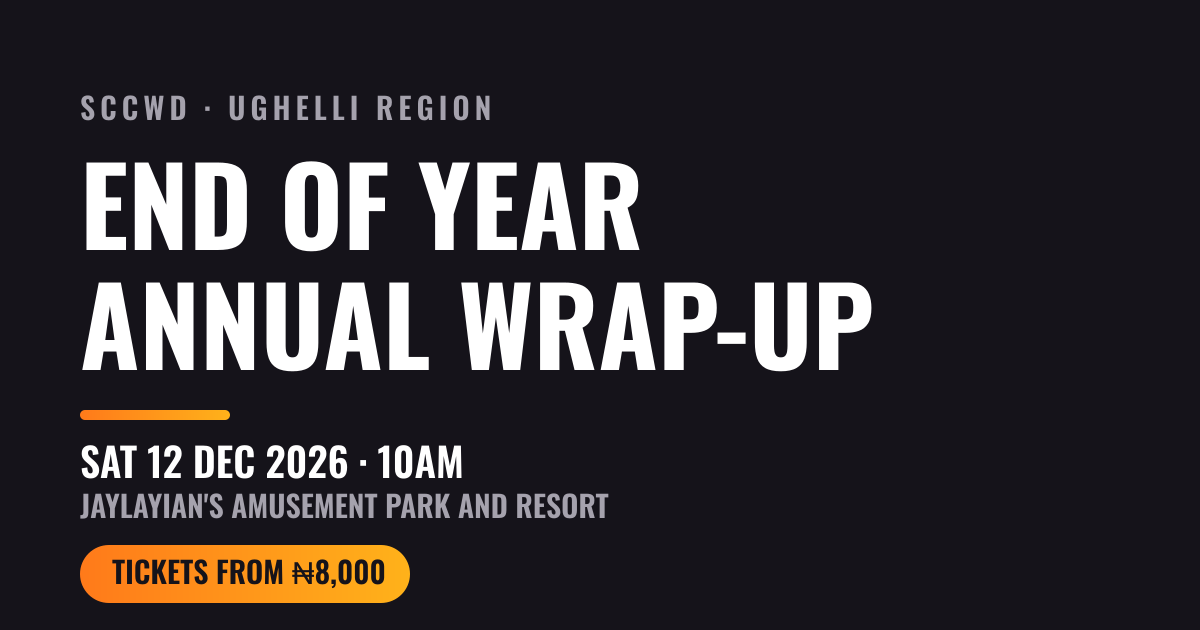
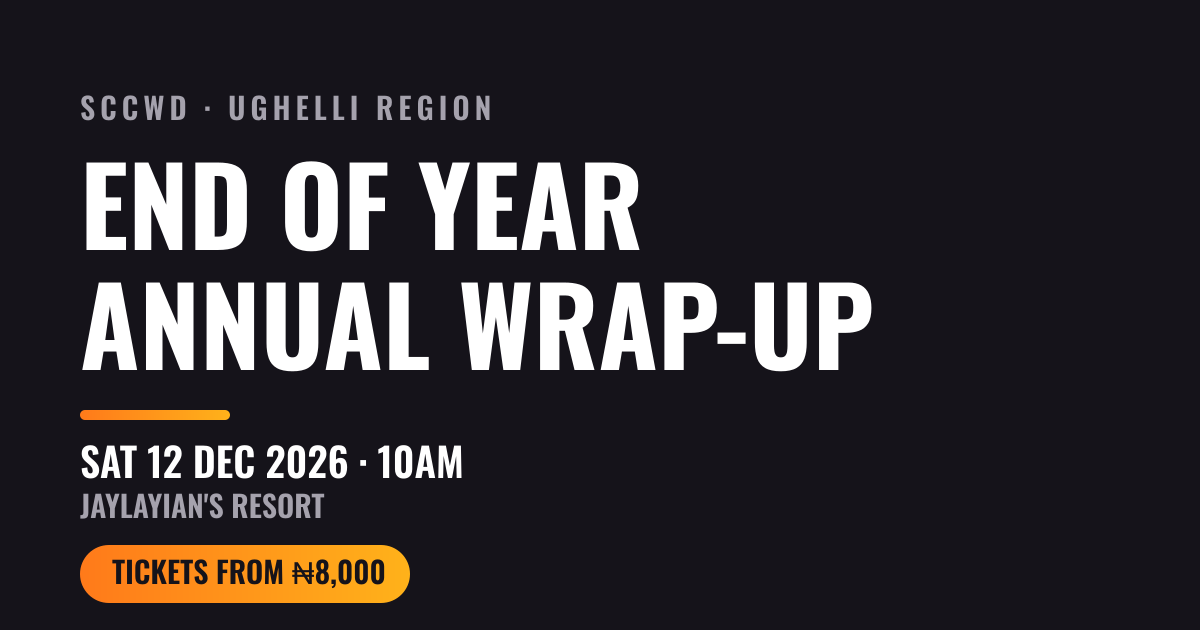
Short venue name: Jaylayian's Resort
Claude-Session: https://claude.ai/code/session_01GjEyqaD2Sx3QCFQvbwdUQF

Changed region(s): [[0.185, 0.7841, 0.5242, 0.8444]]

diff --git a/index.html b/index.html
@@ -4,10 +4,10 @@
     <meta charset="utf-8" />
     <meta name="viewport" content="width=device-width, initial-scale=1, viewport-fit=cover" />
     <title>Ughelli Regional Choir End of Year Wrap-Up · Sat 12 Dec 2026</title>
-    <meta name="description" content="Love feast, swimming, soccer, table tennis, snooker and a dancing competition. Saturday 12 December 2026, 10am at Jaylayian's Amusement Park and Resort. Get your e-ticket." />
+    <meta name="description" content="Love feast, swimming, soccer, table tennis, snooker and a dancing competition. Saturday 12 December 2026, 10am at Jaylayian's Resort. Get your e-ticket." />
     <meta property="og:type" content="website" />
     <meta property="og:title" content="Ughelli Regional Choir End of Year Wrap-Up" />
-    <meta property="og:description" content="Sat 12 Dec 2026, 10am · Jaylayian's Amusement Park and Resort. Tickets from ₦8,000." />
+    <meta property="og:description" content="Sat 12 Dec 2026, 10am · Jaylayian's Resort. Tickets from ₦8,000." />
     <meta property="og:image" content="https://ughelli.sccwd.org/og-card.png" />
     <meta property="og:image:width" content="1200" />
     <meta property="og:image:height" content="630" />
@@ -40,7 +40,7 @@
             <div class="pills">
               <div class="pill"><span>Date</span><b id="date-line">Saturday, 12 December 2026</b></div>
               <div class="pill"><span>Time</span><b id="time-line">10:00am</b></div>
-              <div class="pill pill-venue"><span>Venue</span><b><span id="venue">Jaylayian&#39;s Amusement Park and Resort</span><small id="venue-area"></small></b>
+              <div class="pill pill-venue"><span>Venue</span><b><span id="venue">Jaylayian&#39;s Resort</span><small id="venue-area"></small></b>
                 <a class="dir" id="dir-link" href="https://maps.app.goo.gl/5kQHrM4UanD5tWbS9" target="_blank" rel="noopener">
                   <svg viewBox="0 0 24 24" width="15" height="15" fill="none" stroke="currentColor" stroke-width="2.2" stroke-linecap="round" stroke-linejoin="round" aria-hidden="true"><path d="M12 21s-7-5.6-7-11.2A7 7 0 0 1 19 9.8C19 15.4 12 21 12 21Z" /><circle cx="12" cy="10" r="2.5" /></svg>
                   Directions

diff --git a/src/event.ts b/src/event.ts
@@ -10,7 +10,7 @@ const DEFAULT: EventInfo = {
   organizer: 'Ughelli Regional Choir · St. Cecilia Choir Warri Diocese',
   about:
     'The first ever Ughelli Regional Choir end of year get-together, and it promises to be a lot of fun. Come with your fellow choristers, come with your friends.',
-  venue: "Jaylayian's Amusement Park and Resort",
+  venue: "Jaylayian's Resort",
   venue_area: '',
   map_url: 'https://maps.app.goo.gl/5kQHrM4UanD5tWbS9',
   starts_at: '2026-12-12T09:00:00Z',

diff --git a/src/ticket.ts b/src/ticket.ts
@@ -9,7 +9,7 @@ type Order = { ref: string; name: string; tickets: Ticket[] };
 
 let ev: EventBits = {
   title: 'Ughelli Regional Choir End of Year Annual Wrap-Up',
-  venue: "Jaylayian's Amusement Park and Resort",
+  venue: "Jaylayian's Resort",
   starts_at: '2026-12-12T09:00:00Z',
 };
 let helpPhone = '0806 625 5265';
